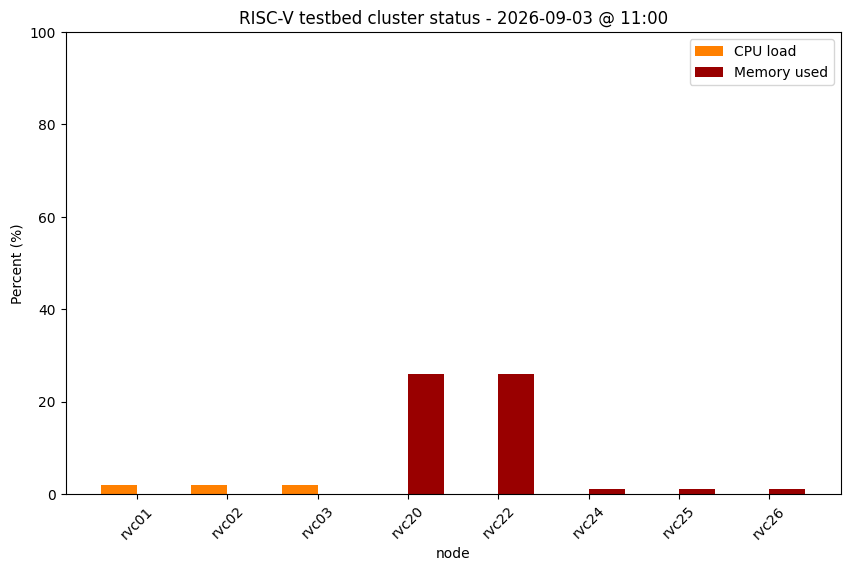
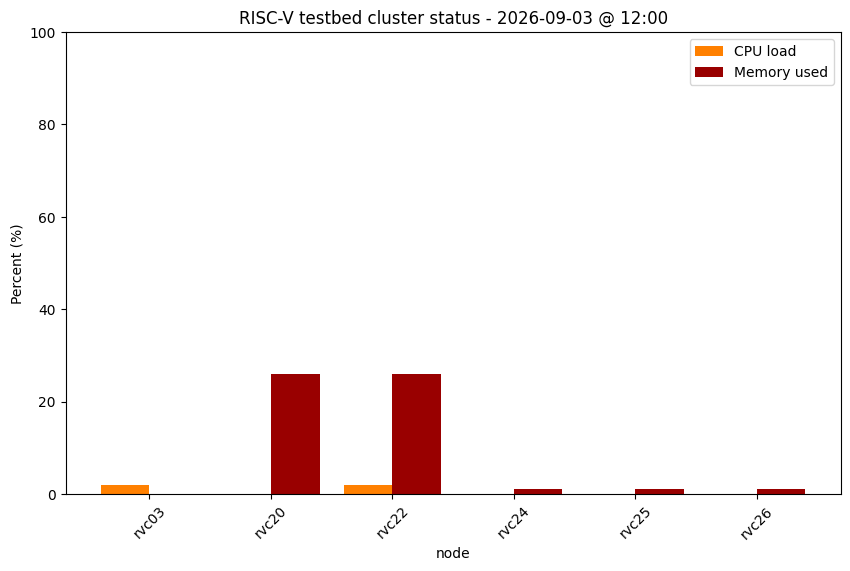
Update cluster status

diff --git a/status.md b/status.md
@@ -13,8 +13,8 @@ permalink: /status/
 
 | Description  | Hostname | # of cores | DRAM | Status |
 | ------------- | ------------- |  ------------- | ------------- | ------------- | 
-| Banana Pi BPI-F3 #1 | rvc01 | 8 | 16GB | <img src="/images/on.png" alt="green light" width="10"/> up |
-| Milk-V Jupiter #1 | rvc02 | 8 | 16GB | <img src="/images/on.png" alt="green light" width="10"/> up |
+| Banana Pi BPI-F3 #1 | rvc01 | 8 | 16GB | <img src="/images/off.png" alt="red light" width="10"/> down |
+| Milk-V Jupiter #1 | rvc02 | 8 | 16GB | <img src="/images/off.png" alt="red light" width="10"/> down |
 | Milk-V Jupiter #2 | rvc03 | 8 | 16GB | <img src="/images/on.png" alt="green light" width="10"/> up |
 | DongshanNezhaSTU #4 | rvc04 | 1 | 512MB | <img src="/images/amber.png" alt="amber light" width="10"/> offline |
 | MangoPi MQ-Pro #1 | rvc05 | 1 | 1GB | <img src="/images/amber.png" alt="amber light" width="10"/> offline |
